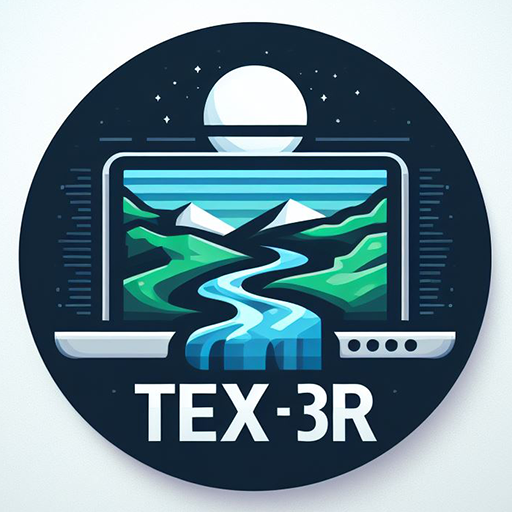
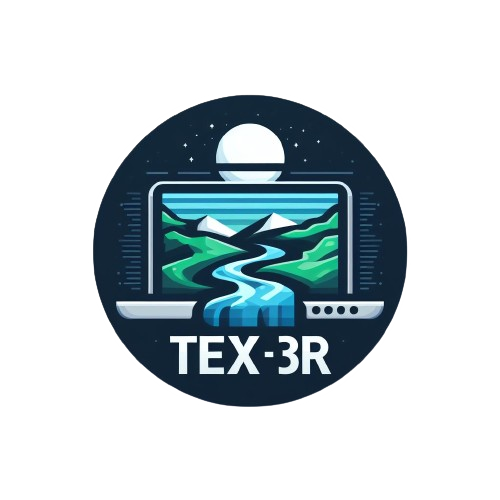
Voir changelog 3.3.2

diff --git a/CHANGELOG.md b/CHANGELOG.md
@@ -21,3 +21,6 @@
  - Snippets de paramétrage modifiés.
  - Onglet documentations modifié
  - Snippet ```parametres``` déplacé dans lua-snippet.json
+
+## [3.3.2] - XX
+ - Modification du logo
